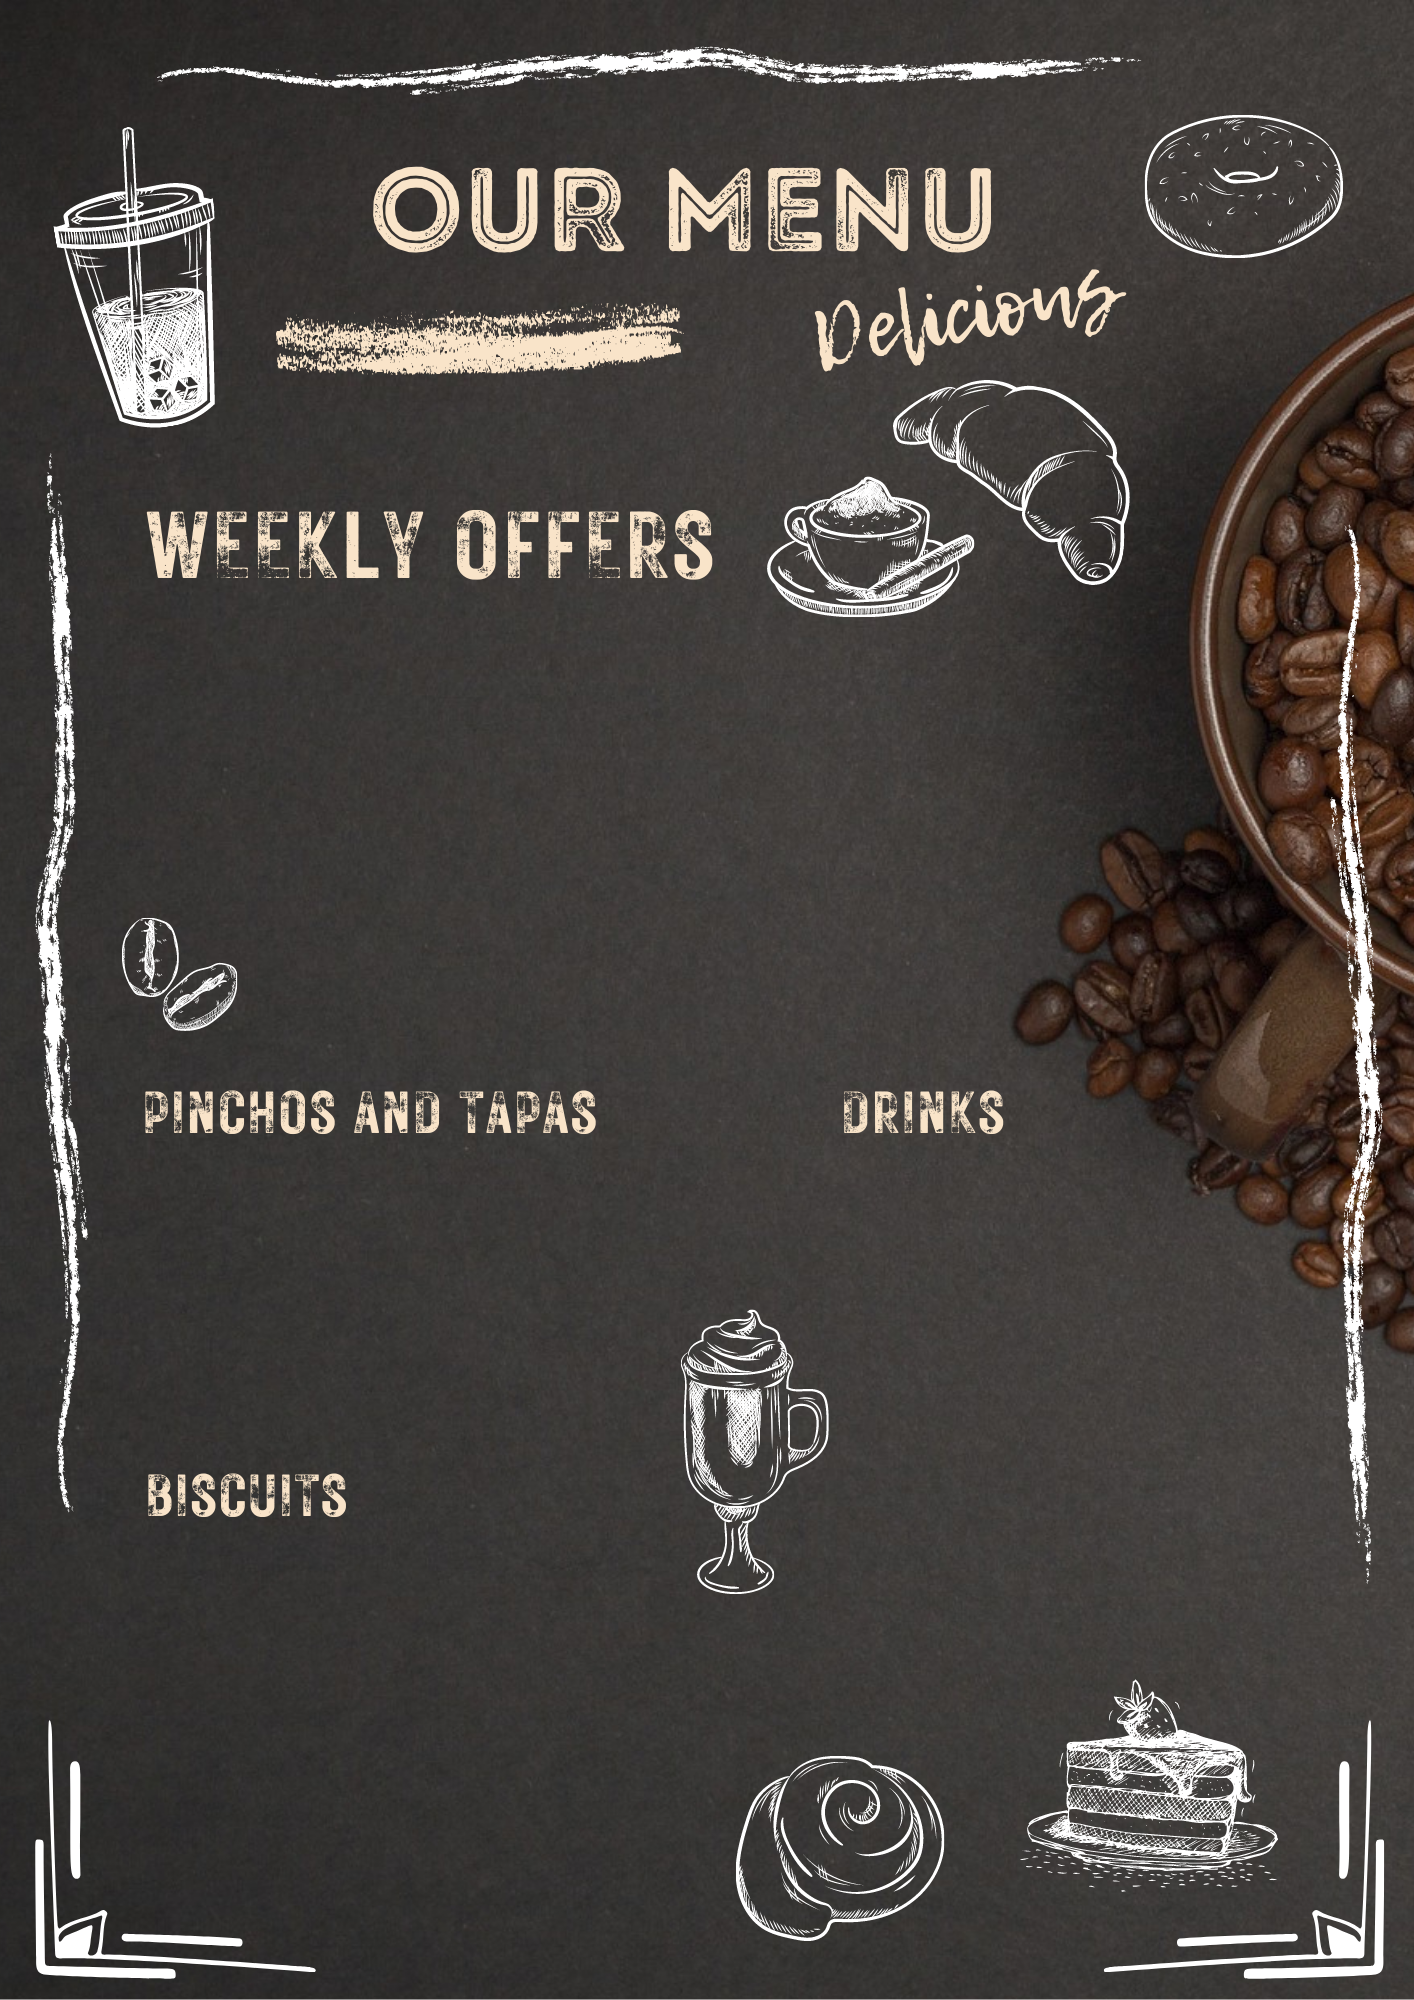
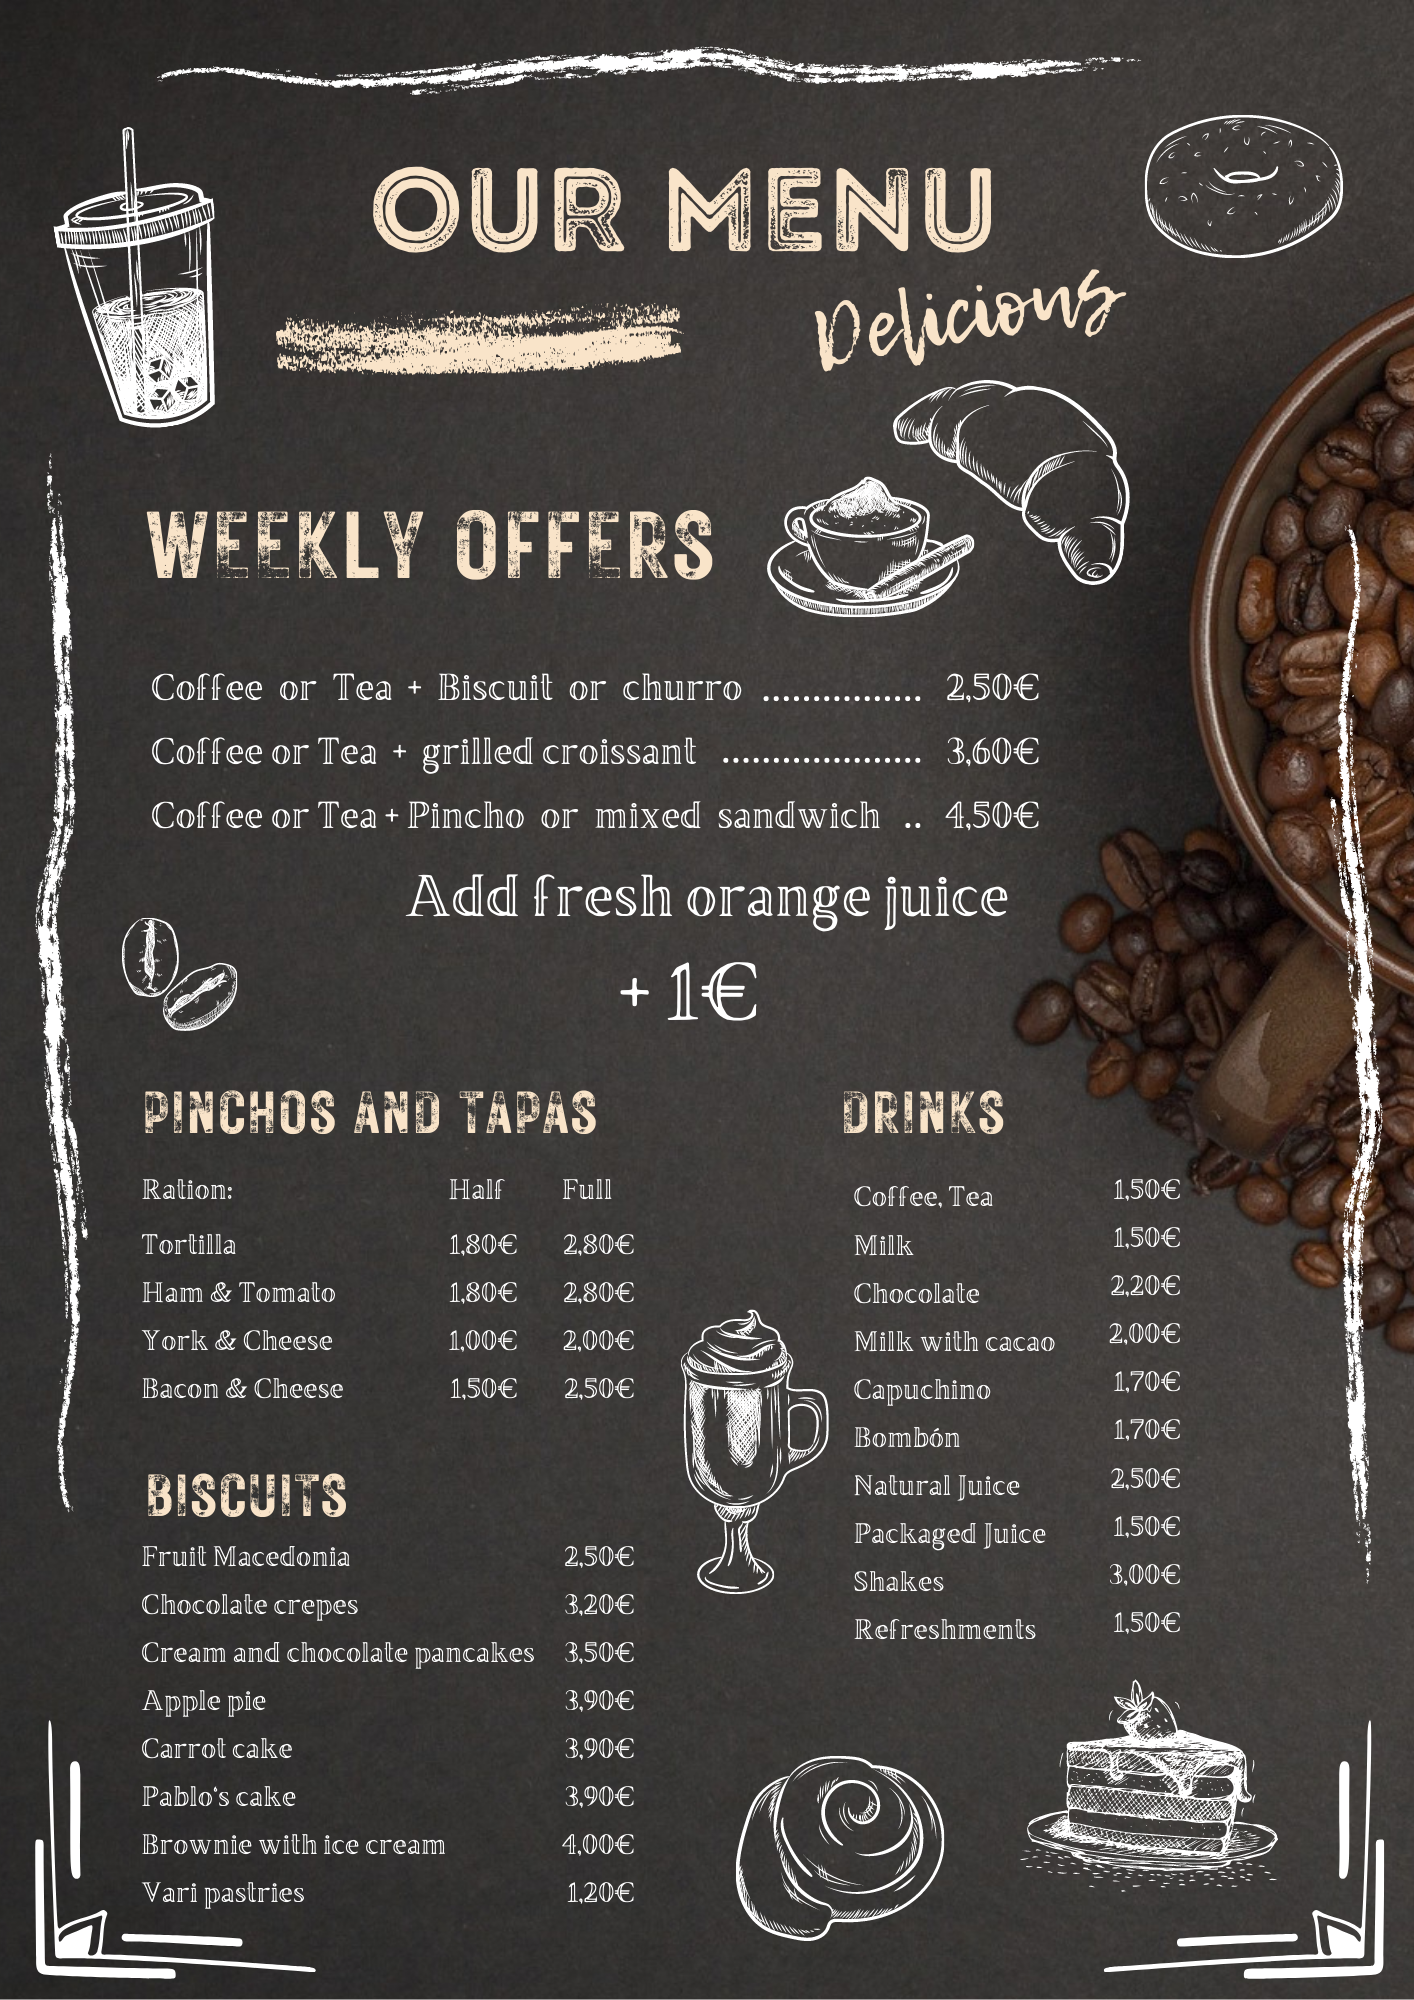
BODY MENU TERMINADO

diff --git a/HTMLyCSS/HTML/MENU.html b/HTMLyCSS/HTML/MENU.html
@@ -7,9 +7,10 @@
     <meta name="viewport" content="width=device-width, initial-scale=1.0">
     <title>MENU</title>
 </head>
-<header>
+<body>
+  <header>
     <div class="grid-container">
-        <div><img src="../IMAGENES/logo.png" style="width: 140px;"></div>
+        <div><img src="../IMAGENES/logo.png" style="width: 140px; margin-left: 10px;"></div>
         <div class="mgdiv">
           <a class="mgtxt">Menu</a>
           <a class="mgtxt">Take Away</a>
@@ -22,10 +23,11 @@
           <img class="imgces" src="../IMAGENES/bolsa-de-la-compra.png">
         </div>
     </div>
-</header>
-<body>
-  <div class="grid-container2">
-    <div></div>
-  </div>
+    <div class="grid-container">
+      <div class="i1">
+        <img src="../IMAGENES/Menú Desayuno Comida Restaurante Rústico Pizarra.png" style="width: 100%;  margin: 0;">
+      </div>
+    </div>
+  </header>
 </body>
 </html>

diff --git a/HTMLyCSS/HTML/CSS-MENU.css b/HTMLyCSS/HTML/CSS-MENU.css
@@ -2,11 +2,13 @@
 
 * {
   font-family: 'Imbue', sans-serif;
+  margin: 0;
 }
 
 .grid-container {
   display: grid;
   grid-template-columns: 150px 400px auto 315px;
+  grid-template-rows: 135px auto auto auto;
 }
 
 .grid-container > div {
@@ -73,14 +75,15 @@
 
 /*---------------------------------------------------------------*/
 
-.grid-container2 {
-    display: grid;
-    grid-template-columns: auto;
-    
-  }
-
-.grid-container2 > div {
-    text-align: center;
-    font-size: 30px;
+.i1 {
+  grid-column: 1 / span 4;
 }
+
+.txtmenu {
+  color: red;
+  grid-column: 1;
+  text-align: center;
+  margin-left: 50px;
+}
+
 
